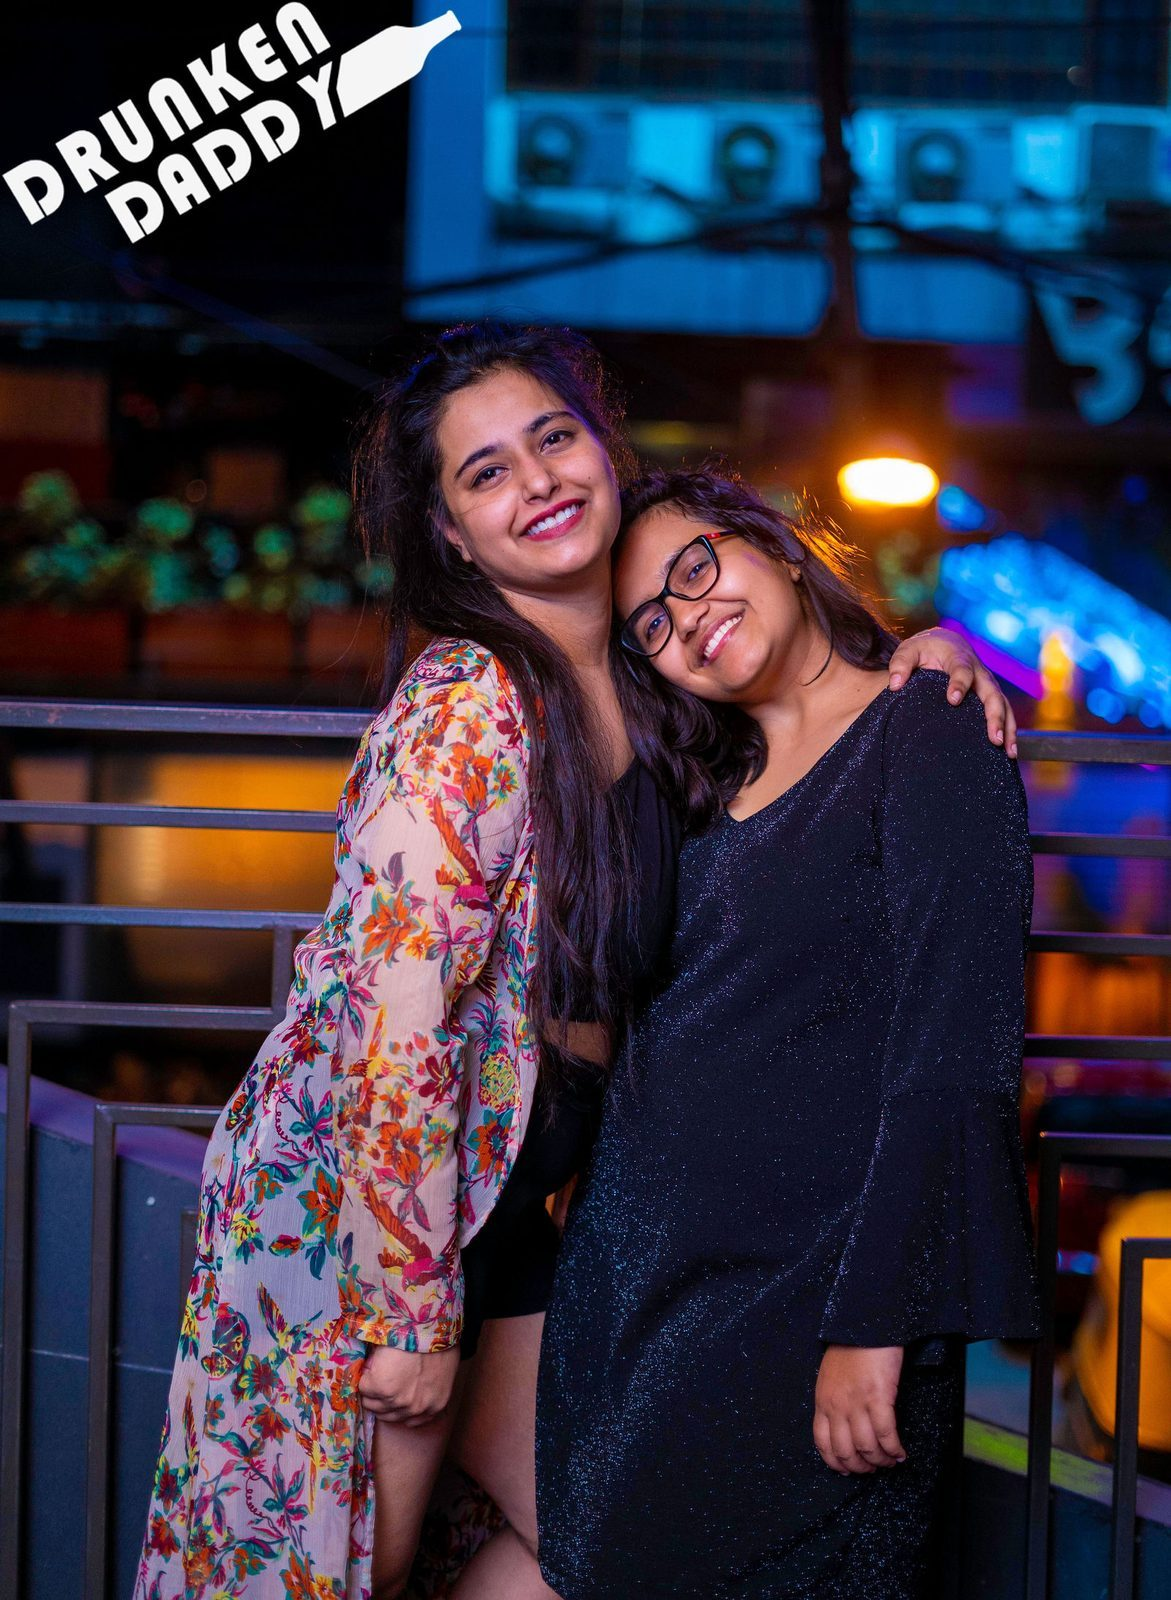
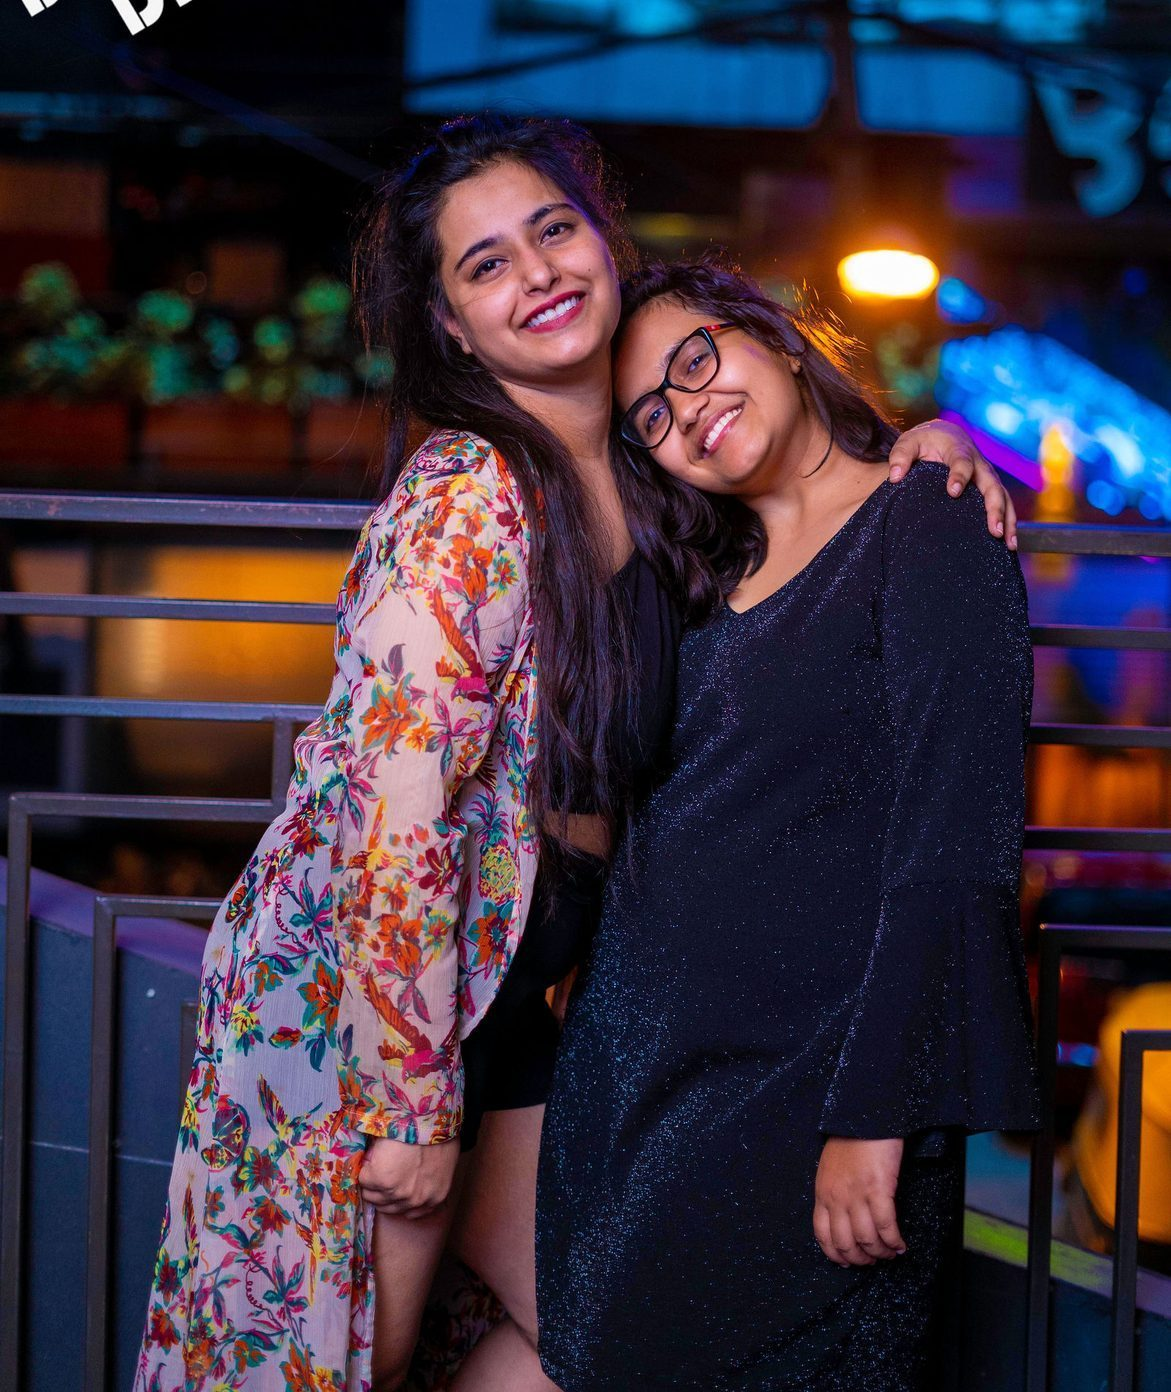
Nights overhaul: de-brand every frame, kill repeats, add the Hangover set. Move all Behance sessions to Fashion.
Nights (his callout: "night party pictures are repeated + none added"):
- Every frame on the wall carried a club/promoter watermark baked into the
  export (DRUNKEN DADDY, BOOM RANG, DRAVA, EVENTUROUZ + a promoter's phone
  number on three). Cropped the branded strips off all 15 party frames in
  place — the homepage Nights card picks up the clean versions automatically.
- Same-person repeats curated out: the party-06/07/08 trio (same two women
  3x) now appears only as party-06 on the homepage card; 04/06/10 are
  homepage-exclusive, so wall↔card duplication is gone.
- Added 7 de-branded frames from the "Fridays at Hangover" set (hang-01..07);
  hang-08 held back (dress too similar to party-12 — reads as a repeat),
  hang-09 became the dedicated nav-nights thumbnail (collision resolved).
- Wall: 14 same-y frames → 16 distinct people/groups. Pixieset link removed
  (platform retired; the set lives here now).

Fashion/Portraits: he wants the full Behance drop on the fashion page — moved
the Divya/Ashika/Sharmiela/Olivia sessions from portraits.html to fashion.html
(no duplication: moved, not copied). Portraits keeps the one-frame-per-face
opener + a pointer to the sessions.

diff --git a/portraits.html b/portraits.html
@@ -116,7 +116,8 @@
 
 <section class="l-section">
   <div class="wrap">
-    <div class="l-head"><h2>Selected <em>portraits</em></h2></div>
+    <div class="l-head"><h2>Selected <em>portraits</em></h2>
+      <p>One frame per face — the full editorial sessions live on the <a href="/fashion.html" style="color:var(--amber)">Fashion page</a>.</p></div>
     <div class="l-gallery">
       <img src="/assets/behance/work-sharmiela.jpg" alt="Portrait portfolio" loading="eager" />
       <img src="/assets/behance/work-ashika.jpg" alt="Actor portfolio portrait" loading="lazy" />
@@ -125,76 +126,6 @@
       <img src="/assets/behance/work-olivia.jpg" alt="Portrait session" loading="lazy" />
       <img src="/assets/behance/work-suman.jpg" alt="Model portfolio" loading="lazy" />
       <img src="/assets/behance/sonika-04.jpg" alt="Sonika Gowda — portrait in red" loading="lazy" />
-    </div>
-  </div>
-</section>
-
-<!-- SESSIONS — full sets from the portfolio shoots -->
-<section class="l-section alt" id="ashika">
-  <div class="wrap">
-    <div class="l-head">
-      <h2>Ashika Ranganath — <em>an evening</em></h2>
-      <p>An evening session with the actor — rooftop light, monochrome stripes, silver. Tap any frame to see it full.</p>
-    </div>
-    <div class="l-gallery">
-      <img src="/assets/behance/ashika-05.jpg" alt="Ashika Ranganath — portrait, floral black" loading="lazy" />
-      <img src="/assets/behance/ashika-06.jpg" alt="Ashika Ranganath — standing portrait" loading="lazy" />
-      <img src="/assets/behance/ashika-07.jpg" alt="Ashika Ranganath — halter stripes portrait" loading="lazy" />
-      <img src="/assets/behance/ashika-08.jpg" alt="Ashika Ranganath — seated by the window" loading="lazy" />
-      <img src="/assets/behance/ashika-09.jpg" alt="Ashika Ranganath — rooftop full-length" loading="lazy" />
-    </div>
-  </div>
-</section>
-
-<section class="l-section" id="divya">
-  <div class="wrap">
-    <div class="l-head">
-      <h2>Divya Pandey — <em>the portfolio</em></h2>
-      <p>A full portfolio day in three looks — silver, sport, silk scarf.</p>
-    </div>
-    <div class="l-gallery">
-      <img src="/assets/behance/divya-04.jpg" alt="Divya Pandey — silver top portrait" loading="lazy" />
-      <img src="/assets/behance/divya-05.jpg" alt="Divya Pandey — silver look, posing" loading="lazy" />
-      <img src="/assets/behance/divya-06.jpg" alt="Divya Pandey — silver look, standing" loading="lazy" />
-      <img src="/assets/behance/divya-07.jpg" alt="Divya Pandey — sport look portrait" loading="lazy" />
-      <img src="/assets/behance/divya-08.jpg" alt="Divya Pandey — sport look, front" loading="lazy" />
-      <img src="/assets/behance/divya-09.jpg" alt="Divya Pandey — sport look, profile" loading="lazy" />
-      <img src="/assets/behance/divya-10.jpg" alt="Divya Pandey — sport look, turning" loading="lazy" />
-      <img src="/assets/behance/divya-11.jpg" alt="Divya Pandey — sport look, midriff" loading="lazy" />
-      <img src="/assets/behance/divya-12.jpg" alt="Divya Pandey — arms raised portrait" loading="lazy" />
-      <img src="/assets/behance/divya-13.jpg" alt="Divya Pandey — silk scarf portrait" loading="lazy" />
-      <img src="/assets/behance/divya-14.jpg" alt="Divya Pandey — scarf look, side light" loading="lazy" />
-      <img src="/assets/behance/divya-15.jpg" alt="Divya Pandey — black velvet look" loading="lazy" />
-    </div>
-  </div>
-</section>
-
-<section class="l-section alt" id="sharmiela">
-  <div class="wrap">
-    <div class="l-head">
-      <h2>Sharmiela Mandre — <em>saree &amp; water</em></h2>
-      <p>Two setups with the actor — a floral saree in soft light, then into the pool.</p>
-    </div>
-    <div class="l-gallery" style="grid-template-columns:repeat(4,1fr)">
-      <img src="/assets/behance/sharmiela-01.jpg" alt="Sharmiela Mandre — saree portrait" loading="lazy" />
-      <img src="/assets/behance/sharmiela-02.jpg" alt="Sharmiela Mandre — floral saree" loading="lazy" />
-      <img src="/assets/behance/sharmiela-03.jpg" alt="Sharmiela Mandre — in the pool, blue" loading="lazy" />
-      <img src="/assets/behance/sharmiela-04.jpg" alt="Sharmiela Mandre — pool portrait" loading="lazy" />
-    </div>
-  </div>
-</section>
-
-<section class="l-section" id="olivia">
-  <div class="wrap">
-    <div class="l-head">
-      <h2>Olivia — <em>Sunday morning</em></h2>
-      <p>A café-morning editorial — white shirt, denim, hard sun.</p>
-    </div>
-    <div class="l-gallery" style="grid-template-columns:repeat(4,1fr)">
-      <img src="/assets/behance/olivia-05.jpg" alt="Olivia — white shirt portrait with sunglasses" loading="lazy" />
-      <img src="/assets/behance/olivia-06.jpg" alt="Olivia — seated on the steps" loading="lazy" />
-      <img src="/assets/behance/olivia-07.jpg" alt="Olivia — at the café table" loading="lazy" />
-      <img src="/assets/behance/olivia-08.jpg" alt="Olivia — morning light, reflections" loading="lazy" />
     </div>
   </div>
 </section>

diff --git a/fashion.html b/fashion.html
@@ -143,6 +143,75 @@
   </div>
 </section>
 
+<section class="l-section" id="divya">
+  <div class="wrap">
+    <div class="l-head">
+      <h2>Divya Pandey — <em>the portfolio</em></h2>
+      <p>A full portfolio day in three looks — silver, sport, silk scarf. Tap any frame to see it full.</p>
+    </div>
+    <div class="l-gallery">
+      <img src="/assets/behance/divya-04.jpg" alt="Divya Pandey — silver top portrait" loading="lazy" />
+      <img src="/assets/behance/divya-05.jpg" alt="Divya Pandey — silver look, posing" loading="lazy" />
+      <img src="/assets/behance/divya-06.jpg" alt="Divya Pandey — silver look, standing" loading="lazy" />
+      <img src="/assets/behance/divya-07.jpg" alt="Divya Pandey — sport look portrait" loading="lazy" />
+      <img src="/assets/behance/divya-08.jpg" alt="Divya Pandey — sport look, front" loading="lazy" />
+      <img src="/assets/behance/divya-09.jpg" alt="Divya Pandey — sport look, profile" loading="lazy" />
+      <img src="/assets/behance/divya-10.jpg" alt="Divya Pandey — sport look, turning" loading="lazy" />
+      <img src="/assets/behance/divya-11.jpg" alt="Divya Pandey — sport look, midriff" loading="lazy" />
+      <img src="/assets/behance/divya-12.jpg" alt="Divya Pandey — arms raised portrait" loading="lazy" />
+      <img src="/assets/behance/divya-13.jpg" alt="Divya Pandey — silk scarf portrait" loading="lazy" />
+      <img src="/assets/behance/divya-14.jpg" alt="Divya Pandey — scarf look, side light" loading="lazy" />
+      <img src="/assets/behance/divya-15.jpg" alt="Divya Pandey — black velvet look" loading="lazy" />
+    </div>
+  </div>
+</section>
+
+<section class="l-section alt" id="ashika">
+  <div class="wrap">
+    <div class="l-head">
+      <h2>Ashika Ranganath — <em>an evening</em></h2>
+      <p>An evening session with the actor — rooftop light, monochrome stripes, silver.</p>
+    </div>
+    <div class="l-gallery">
+      <img src="/assets/behance/ashika-05.jpg" alt="Ashika Ranganath — portrait, floral black" loading="lazy" />
+      <img src="/assets/behance/ashika-06.jpg" alt="Ashika Ranganath — standing portrait" loading="lazy" />
+      <img src="/assets/behance/ashika-07.jpg" alt="Ashika Ranganath — halter stripes portrait" loading="lazy" />
+      <img src="/assets/behance/ashika-08.jpg" alt="Ashika Ranganath — seated by the window" loading="lazy" />
+      <img src="/assets/behance/ashika-09.jpg" alt="Ashika Ranganath — rooftop full-length" loading="lazy" />
+    </div>
+  </div>
+</section>
+
+<section class="l-section" id="sharmiela">
+  <div class="wrap">
+    <div class="l-head">
+      <h2>Sharmiela Mandre — <em>saree &amp; water</em></h2>
+      <p>Two setups with the actor — a floral saree in soft light, then into the pool.</p>
+    </div>
+    <div class="l-gallery" style="grid-template-columns:repeat(4,1fr)">
+      <img src="/assets/behance/sharmiela-01.jpg" alt="Sharmiela Mandre — saree portrait" loading="lazy" />
+      <img src="/assets/behance/sharmiela-02.jpg" alt="Sharmiela Mandre — floral saree" loading="lazy" />
+      <img src="/assets/behance/sharmiela-03.jpg" alt="Sharmiela Mandre — in the pool, blue" loading="lazy" />
+      <img src="/assets/behance/sharmiela-04.jpg" alt="Sharmiela Mandre — pool portrait" loading="lazy" />
+    </div>
+  </div>
+</section>
+
+<section class="l-section alt" id="olivia">
+  <div class="wrap">
+    <div class="l-head">
+      <h2>Olivia — <em>Sunday morning</em></h2>
+      <p>A café-morning editorial — white shirt, denim, hard sun.</p>
+    </div>
+    <div class="l-gallery" style="grid-template-columns:repeat(4,1fr)">
+      <img src="/assets/behance/olivia-05.jpg" alt="Olivia — white shirt portrait with sunglasses" loading="lazy" />
+      <img src="/assets/behance/olivia-06.jpg" alt="Olivia — seated on the steps" loading="lazy" />
+      <img src="/assets/behance/olivia-07.jpg" alt="Olivia — at the café table" loading="lazy" />
+      <img src="/assets/behance/olivia-08.jpg" alt="Olivia — morning light, reflections" loading="lazy" />
+    </div>
+  </div>
+</section>
+
 <section class="l-section" id="suman">
   <div class="wrap">
     <div class="l-head">

diff --git a/nights.html b/nights.html
@@ -104,23 +104,25 @@
   <div class="wrap">
     <div class="l-head">
       <h2>Frames from <em>the floor</em></h2>
-      <p>Party highlights — the full set lives on <a href="https://yksproductions.pixieset.com/partyhighlights/" target="_blank" rel="noopener" style="color:var(--amber)">Pixieset</a>.</p>
+      <p>Across the clubs of Bangalore — every face different, every night its own. Tap any frame to see it full.</p>
     </div>
     <div class="l-gallery nights-wall">
       <img src="/assets/party/party-01.jpg" alt="Nightlife photography — on the dance floor" loading="eager" />
-      <img src="/assets/party/party-03.jpg" alt="Nightlife frame — flash-lit crowd" loading="lazy" />
-      <img src="/assets/party/party-04.jpg" alt="Party photography — the toast" loading="lazy" />
-      <img src="/assets/party/party-05.jpg" alt="Nightlife photography — lights and movement" loading="lazy" />
-      <img src="/assets/party/party-06.jpg" alt="Party frame — caught mid-laugh" loading="lazy" />
-      <img src="/assets/party/party-07.jpg" alt="Nightlife photography — the crowd" loading="lazy" />
-      <img src="/assets/party/party-08.jpg" alt="Party photography — celebration" loading="lazy" />
-      <img src="/assets/party/party-09.jpg" alt="Nightlife frame — after dark" loading="lazy" />
-      <img src="/assets/party/party-10.jpg" alt="Party photography — the floor" loading="lazy" />
+      <img src="/assets/party/party-03.jpg" alt="Nightlife frame — friends flash-lit" loading="lazy" />
+      <img src="/assets/party/party-05.jpg" alt="Nightlife photography — at the bar rail" loading="lazy" />
+      <img src="/assets/party/party-09.jpg" alt="Nightlife frame — pink dress, gold light" loading="lazy" />
       <img src="/assets/party/party-11.jpg" alt="Nightlife photography — flash portrait" loading="lazy" />
-      <img src="/assets/party/party-12.jpg" alt="Party frame — friends celebrating" loading="lazy" />
+      <img src="/assets/party/party-12.jpg" alt="Party frame — velvet at the bar" loading="lazy" />
       <img src="/assets/party/party-13.jpg" alt="Nightlife photography — the moment" loading="lazy" />
-      <img src="/assets/party/party-14.jpg" alt="Party photography — dancing" loading="lazy" />
-      <img src="/assets/party/party-15.jpg" alt="Nightlife frame — the night in motion" loading="lazy" />
+      <img src="/assets/party/party-14.jpg" alt="Party photography — under the neon" loading="lazy" />
+      <img src="/assets/party/party-15.jpg" alt="Nightlife frame — lilac, golden hour of the night" loading="lazy" />
+      <img src="/assets/party/hang-01.jpg" alt="Friday night — friends at the club" loading="lazy" />
+      <img src="/assets/party/hang-02.jpg" alt="Friday night — the couple, flash-lit" loading="lazy" />
+      <img src="/assets/party/hang-03.jpg" alt="Friday night — sequins at the bar" loading="lazy" />
+      <img src="/assets/party/hang-04.jpg" alt="Friday night — against the glass wall" loading="lazy" />
+      <img src="/assets/party/hang-05.jpg" alt="Friday night — two friends laughing" loading="lazy" />
+      <img src="/assets/party/hang-06.jpg" alt="Friday night — red blouse portrait" loading="lazy" />
+      <img src="/assets/party/hang-07.jpg" alt="Friday night — leopard and black" loading="lazy" />
     </div>
   </div>
 </section>
